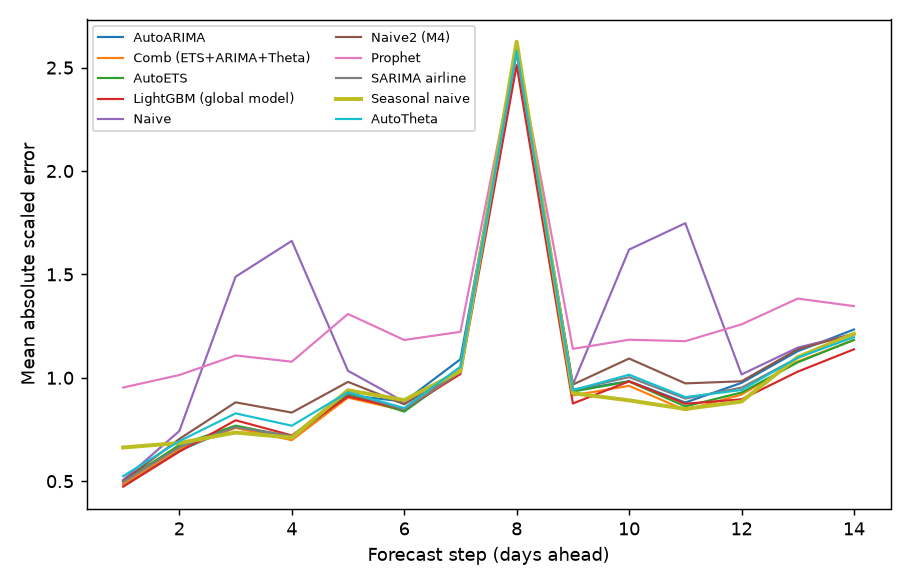
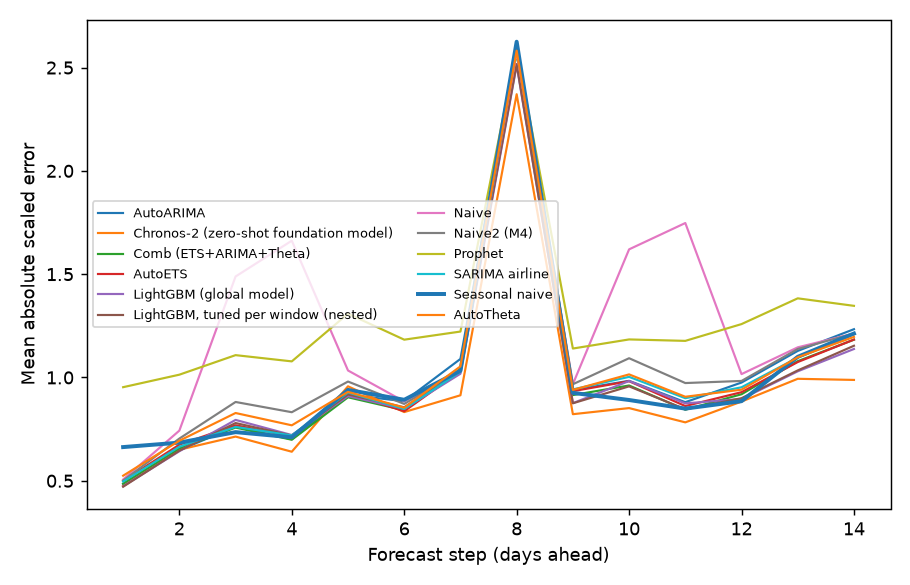
results: add Chronos-2 and nested-tuned LightGBM to both leaderboards
python -m ts_forecasting.benchmark for m4-monthly and electricity-daily, then make report.
Chronos-2 ran zero-shot on the RTX 5070 Ti (cuda); other models on the Ryzen 7 9800X3D.
Existing models' scores were reused from results/ and match the previous leaderboards to 3 decimals.

diff --git a/docs/results/m4-monthly/report.md b/docs/results/m4-monthly/report.md
@@ -4,37 +4,41 @@
 
 ## Leaderboard
 
-| model                                 |   mase |   rel_mase |   owa |   smape |    rmse |   coverage_80 |   msis_80 |   coverage_95 |   msis_95 |   ms_per_series |        n |
-|:--------------------------------------|-------:|-----------:|------:|--------:|--------:|--------------:|----------:|--------------:|----------:|----------------:|---------:|
-| Comb (ETS+ARIMA+Theta)                |  0.955 |      0.720 | 0.915 |   9.486 | 602.466 |         0.797 |     5.114 |         0.916 |     9.093 |         682.566 | 1500.000 |
-| AutoETS                               |  0.990 |      0.746 | 0.942 |   9.696 | 633.876 |         0.786 |     5.243 |         0.909 |     9.358 |          48.164 | 1500.000 |
-| SARIMA airline                        |  0.990 |      0.747 | 0.972 |  10.312 | 651.728 |         0.796 |     5.456 |         0.913 |    10.126 |          55.679 | 1500.000 |
-| AutoTheta                             |  0.992 |      0.748 | 0.953 |   9.893 | 611.049 |         0.750 |     5.590 |         0.872 |    10.872 |          26.080 | 1500.000 |
-| AutoARIMA                             |  0.998 |      0.753 | 0.961 |  10.007 | 627.774 |         0.774 |     5.588 |         0.896 |    10.813 |         608.323 | 1500.000 |
-| Naive2 (M4)                           |  1.063 |      0.801 | 1.000 |  10.183 | 632.729 |         0.813 |     6.560 |         0.914 |    11.669 |           1.481 | 1500.000 |
-| LightGBM (global model)               |  1.107 |      0.835 | 1.018 |  10.131 | 638.587 |         0.804 |     5.946 |         0.947 |    10.967 |          25.027 | 1500.000 |
-| LightGBM, pooled intervals (ablation) |  1.107 |      0.835 | 1.018 |  10.131 | 638.587 |         0.808 |     9.513 |         0.949 |    22.395 |          24.994 | 1500.000 |
-| Naive                                 |  1.235 |      0.931 | 1.139 |  11.358 | 703.280 |         0.847 |     7.781 |         0.932 |    13.320 |           0.487 | 1500.000 |
-| Seasonal naive                        |  1.326 |      1.000 | 1.220 |  12.135 | 777.087 |         0.782 |     7.053 |         0.915 |    12.441 |           0.407 | 1500.000 |
-| Prophet                               |  1.454 |      1.097 | 1.457 |  15.740 | 802.903 |         0.450 |     9.232 |         0.614 |    23.177 |          61.607 | 1500.000 |
+| model                                  |   mase |   rel_mase |   owa |   smape |    rmse |   coverage_80 |   msis_80 |   coverage_95 |   msis_95 |   ms_per_series |        n |
+|:---------------------------------------|-------:|-----------:|------:|--------:|--------:|--------------:|----------:|--------------:|----------:|----------------:|---------:|
+| Chronos-2 (zero-shot foundation model) |  0.943 |      0.711 | 0.897 |   9.219 | 584.622 |         0.782 |     4.740 |         0.961 |     8.498 |          65.199 | 1500.000 |
+| Comb (ETS+ARIMA+Theta)                 |  0.955 |      0.720 | 0.915 |   9.486 | 602.466 |         0.797 |     5.114 |         0.916 |     9.093 |         682.566 | 1500.000 |
+| AutoETS                                |  0.990 |      0.746 | 0.942 |   9.696 | 633.876 |         0.786 |     5.243 |         0.909 |     9.358 |          48.164 | 1500.000 |
+| SARIMA airline                         |  0.990 |      0.747 | 0.972 |  10.312 | 651.728 |         0.796 |     5.456 |         0.913 |    10.126 |          55.679 | 1500.000 |
+| AutoTheta                              |  0.992 |      0.748 | 0.953 |   9.893 | 611.049 |         0.750 |     5.590 |         0.872 |    10.872 |          26.080 | 1500.000 |
+| AutoARIMA                              |  0.998 |      0.753 | 0.961 |  10.007 | 627.774 |         0.774 |     5.588 |         0.896 |    10.813 |         608.323 | 1500.000 |
+| Naive2 (M4)                            |  1.063 |      0.801 | 1.000 |  10.183 | 632.729 |         0.813 |     6.560 |         0.914 |    11.669 |           1.481 | 1500.000 |
+| LightGBM (global model)                |  1.107 |      0.835 | 1.018 |  10.131 | 638.587 |         0.804 |     5.946 |         0.947 |    10.967 |          25.027 | 1500.000 |
+| LightGBM, pooled intervals (ablation)  |  1.107 |      0.835 | 1.018 |  10.131 | 638.587 |         0.808 |     9.513 |         0.949 |    22.395 |          24.994 | 1500.000 |
+| LightGBM, tuned per window (nested)    |  1.116 |      0.841 | 1.024 |  10.165 | 639.468 |         0.798 |     5.997 |         0.946 |    11.043 |          67.708 | 1500.000 |
+| Naive                                  |  1.235 |      0.931 | 1.139 |  11.358 | 703.280 |         0.847 |     7.781 |         0.932 |    13.320 |           0.487 | 1500.000 |
+| Seasonal naive                         |  1.326 |      1.000 | 1.220 |  12.135 | 777.087 |         0.782 |     7.053 |         0.915 |    12.441 |           0.407 | 1500.000 |
+| Prophet                                |  1.454 |      1.097 | 1.457 |  15.740 | 802.903 |         0.450 |     9.232 |         0.614 |    23.177 |          61.607 | 1500.000 |
 
 `owa` = M4 Overall Weighted Average vs Naive2; `msis_95` = M4 mean scaled interval score.
 
 ## Significance vs seasonal naive
 
-| model                   |   mase_diff |   mase_diff_ci_low |   mase_diff_ci_high |   win_rate_pct |   wilcoxon_p |   wilcoxon_p_holm |   dm_better_pct |   dm_worse_pct |   dm_series |   mean_rank |
-|:------------------------|------------:|-------------------:|--------------------:|---------------:|-------------:|------------------:|----------------:|---------------:|------------:|------------:|
-| AutoARIMA               |     -0.328  |            -0.377  |             -0.279  |           79   |     1.1e-40  |          6.58e-40 |            43   |            4.6 |         500 |        4.64 |
-| Comb (ETS+ARIMA+Theta)  |     -0.371  |            -0.418  |             -0.324  |           81   |     3.75e-52 |          3.37e-51 |            48.8 |            3.4 |         500 |        3.99 |
-| AutoETS                 |     -0.336  |            -0.385  |             -0.288  |           81   |     8.45e-48 |          6.76e-47 |            48.8 |            3   |         500 |        4.46 |
-| LightGBM (global model) |     -0.219  |            -0.249  |             -0.189  |           81.6 |     2.57e-47 |          1.8e-46  |            46   |            3.6 |         500 |        5.66 |
-| Naive                   |     -0.0914 |            -0.158  |             -0.0202 |           64.8 |     3.74e-09 |          7.47e-09 |            40   |           16.8 |         500 |        6.23 |
-| Naive2 (M4)             |     -0.264  |            -0.312  |             -0.218  |           74.2 |     2.01e-33 |          6.03e-33 |            47.2 |            6.4 |         500 |        5.38 |
-| Prophet                 |      0.128  |             0.0652 |              0.189  |           46   |     0.000174 |          0.000174 |            17   |           31   |         500 |        7.54 |
-| SARIMA airline          |     -0.336  |            -0.39   |             -0.284  |           75   |     1.63e-39 |          8.14e-39 |            43   |            5.6 |         500 |        4.76 |
-| AutoTheta               |     -0.334  |            -0.389  |             -0.281  |           76.4 |     1.73e-39 |          8.14e-39 |            45.2 |            7.2 |         500 |        4.75 |
+| model                                  |   mase_diff |   mase_diff_ci_low |   mase_diff_ci_high |   win_rate_pct |   wilcoxon_p |   wilcoxon_p_holm |   dm_better_pct |   dm_worse_pct |   dm_series |   mean_rank |
+|:---------------------------------------|------------:|-------------------:|--------------------:|---------------:|-------------:|------------------:|----------------:|---------------:|------------:|------------:|
+| AutoARIMA                              |     -0.328  |            -0.377  |             -0.279  |           79   |     1.1e-40  |          6.58e-40 |            43   |            4.6 |         500 |        5.58 |
+| Chronos-2 (zero-shot foundation model) |     -0.383  |            -0.435  |             -0.335  |           82.2 |     1.18e-55 |          1.29e-54 |            47.6 |            2.4 |         500 |        5.02 |
+| Comb (ETS+ARIMA+Theta)                 |     -0.371  |            -0.418  |             -0.324  |           81   |     3.75e-52 |          3.75e-51 |            48.8 |            3.4 |         500 |        4.83 |
+| AutoETS                                |     -0.336  |            -0.385  |             -0.288  |           81   |     8.45e-48 |          6.76e-47 |            48.8 |            3   |         500 |        5.33 |
+| LightGBM (global model)                |     -0.219  |            -0.249  |             -0.189  |           81.6 |     2.57e-47 |          1.8e-46  |            46   |            3.6 |         500 |        6.81 |
+| LightGBM, tuned per window (nested)    |     -0.211  |            -0.241  |             -0.181  |           82.6 |     2.02e-48 |          1.81e-47 |            43.8 |            4.2 |         500 |        6.87 |
+| Naive                                  |     -0.0914 |            -0.158  |             -0.0202 |           64.8 |     3.74e-09 |          7.47e-09 |            40   |           16.8 |         500 |        7.43 |
+| Naive2 (M4)                            |     -0.264  |            -0.312  |             -0.218  |           74.2 |     2.01e-33 |          6.03e-33 |            47.2 |            6.4 |         500 |        6.41 |
+| Prophet                                |      0.128  |             0.0652 |              0.189  |           46   |     0.000174 |          0.000174 |            17   |           31   |         500 |        9.06 |
+| SARIMA airline                         |     -0.336  |            -0.39   |             -0.284  |           75   |     1.63e-39 |          8.14e-39 |            43   |            5.6 |         500 |        5.71 |
+| AutoTheta                              |     -0.334  |            -0.389  |             -0.281  |           76.4 |     1.73e-39 |          8.14e-39 |            45.2 |            7.2 |         500 |        5.7  |
 
-Friedman test across all models: p = 1.3e-162. Nemenyi critical difference at 5%: 0.606 mean ranks.
+Friedman test across all models: p = 4.7e-188. Nemenyi critical difference at 5%: 0.745 mean ranks.
 
 `mase_diff` = mean per-series MASE difference (model - baseline) with a 95% series bootstrap CI; `win_rate_pct` = share of series where the model's MASE is lower; `dm_better_pct` / `dm_worse_pct` = share of series where a Diebold-Mariano test (absolute scaled error, HAC variance, HLN correction) finds the model significantly better / worse at 5%.
 

diff --git a/docs/results/electricity-daily/report.md b/docs/results/electricity-daily/report.md
@@ -4,36 +4,40 @@
 
 ## Leaderboard
 
-| model                   |   mase |   rel_mase |   owa |   smape |     rmse |   coverage_80 |   msis_80 |   coverage_95 |   msis_95 |   ms_per_series |        n |
-|:------------------------|-------:|-----------:|------:|--------:|---------:|--------------:|----------:|--------------:|----------:|----------------:|---------:|
-| LightGBM (global model) |  0.980 |      0.970 | 0.923 |   8.048 | 1327.564 |         0.805 |     5.681 |         0.940 |    10.867 |          74.487 | 1026.000 |
-| Comb (ETS+ARIMA+Theta)  |  0.990 |      0.980 | 0.934 |   8.164 | 1273.207 |         0.885 |     6.102 |         0.949 |    10.926 |        2267.105 | 1026.000 |
-| AutoETS                 |  1.000 |      0.989 | 0.946 |   8.289 | 1287.762 |         0.892 |     6.196 |         0.955 |    10.985 |         162.623 | 1026.000 |
-| SARIMA airline          |  1.010 |      1.000 | 0.966 |   8.552 | 1284.509 |         0.900 |     6.447 |         0.958 |    11.263 |          95.797 | 1026.000 |
-| Seasonal naive          |  1.010 |      1.000 | 0.950 |   8.280 | 1424.707 |         0.895 |     6.482 |         0.956 |    11.147 |           0.639 | 1026.000 |
-| AutoARIMA               |  1.016 |      1.005 | 0.955 |   8.321 | 1349.321 |         0.852 |     5.990 |         0.934 |    11.151 |        1912.116 | 1026.000 |
-| AutoTheta               |  1.024 |      1.013 | 0.968 |   8.481 | 1277.982 |         0.877 |     6.455 |         0.944 |    11.459 |         192.366 | 1026.000 |
-| Naive2 (M4)             |  1.055 |      1.045 | 1.000 |   8.776 | 1312.173 |         0.947 |     8.290 |         0.979 |    13.115 |           1.237 | 1026.000 |
-| Naive                   |  1.260 |      1.247 | 1.198 |  10.559 | 1435.218 |         0.955 |     9.861 |         0.983 |    15.336 |           0.461 | 1026.000 |
-| Prophet                 |  1.282 |      1.269 | 1.274 |  11.704 | 1444.302 |         0.707 |     6.604 |         0.865 |    12.245 |          80.183 | 1026.000 |
+| model                                  |   mase |   rel_mase |   owa |   smape |     rmse |   coverage_80 |   msis_80 |   coverage_95 |   msis_95 |   ms_per_series |        n |
+|:---------------------------------------|-------:|-----------:|------:|--------:|---------:|--------------:|----------:|--------------:|----------:|----------------:|---------:|
+| Chronos-2 (zero-shot foundation model) |  0.920 |      0.910 | 0.868 |   7.580 | 1185.452 |         0.781 |     4.738 |         0.955 |     8.342 |          10.007 | 1026.000 |
+| LightGBM, tuned per window (nested)    |  0.979 |      0.969 | 0.920 |   8.004 | 1329.642 |         0.801 |     5.656 |         0.940 |    10.870 |         189.346 | 1026.000 |
+| LightGBM (global model)                |  0.980 |      0.970 | 0.923 |   8.048 | 1327.564 |         0.805 |     5.681 |         0.940 |    10.867 |          74.487 | 1026.000 |
+| Comb (ETS+ARIMA+Theta)                 |  0.990 |      0.980 | 0.934 |   8.164 | 1273.207 |         0.885 |     6.102 |         0.949 |    10.926 |        2267.105 | 1026.000 |
+| AutoETS                                |  1.000 |      0.989 | 0.946 |   8.289 | 1287.762 |         0.892 |     6.196 |         0.955 |    10.985 |         162.623 | 1026.000 |
+| SARIMA airline                         |  1.010 |      1.000 | 0.966 |   8.552 | 1284.509 |         0.900 |     6.447 |         0.958 |    11.263 |          95.797 | 1026.000 |
+| Seasonal naive                         |  1.010 |      1.000 | 0.950 |   8.280 | 1424.707 |         0.895 |     6.482 |         0.956 |    11.147 |           0.639 | 1026.000 |
+| AutoARIMA                              |  1.016 |      1.005 | 0.955 |   8.321 | 1349.321 |         0.852 |     5.990 |         0.934 |    11.151 |        1912.116 | 1026.000 |
+| AutoTheta                              |  1.024 |      1.013 | 0.968 |   8.481 | 1277.982 |         0.877 |     6.455 |         0.944 |    11.459 |         192.366 | 1026.000 |
+| Naive2 (M4)                            |  1.055 |      1.045 | 1.000 |   8.776 | 1312.173 |         0.947 |     8.290 |         0.979 |    13.115 |           1.237 | 1026.000 |
+| Naive                                  |  1.260 |      1.247 | 1.198 |  10.559 | 1435.218 |         0.955 |     9.861 |         0.983 |    15.336 |           0.461 | 1026.000 |
+| Prophet                                |  1.282 |      1.269 | 1.274 |  11.704 | 1444.302 |         0.707 |     6.604 |         0.865 |    12.245 |          80.183 | 1026.000 |
 
 `owa` = M4 Overall Weighted Average vs Naive2; `msis_95` = M4 mean scaled interval score.
 
 ## Significance vs seasonal naive
 
-| model                   |   mase_diff |   mase_diff_ci_low |   mase_diff_ci_high |   win_rate_pct |   wilcoxon_p |   wilcoxon_p_holm |   dm_better_pct |   dm_worse_pct |   dm_series |   mean_rank |
-|:------------------------|------------:|-------------------:|--------------------:|---------------:|-------------:|------------------:|----------------:|---------------:|------------:|------------:|
-| AutoARIMA               |    0.00526  |            -0.0134 |             0.0264  |           57.6 |     0.265    |          0.385    |            9.65 |          12.6  |         342 |        5.19 |
-| Comb (ETS+ARIMA+Theta)  |   -0.0207   |            -0.0371 |            -0.00307 |           62   |     8.84e-05 |          0.00053  |           11.4  |           6.73 |         342 |        4.21 |
-| AutoETS                 |   -0.0107   |            -0.0281 |             0.00763 |           58.5 |     0.01     |          0.0501   |           12    |           6.73 |         342 |        4.8  |
-| LightGBM (global model) |   -0.0307   |            -0.0476 |            -0.013   |           64   |     1.5e-07  |          1.05e-06 |           11.1  |           6.43 |         342 |        4.51 |
-| Naive                   |    0.249    |             0.189  |             0.323   |           36   |     1.42e-13 |          1.14e-12 |            5.26 |          28.7  |         342 |        7.16 |
-| Naive2 (M4)             |    0.045    |             0.0143 |             0.079   |           44.7 |     0.0298   |          0.119    |            9.06 |          14.3  |         342 |        6.14 |
-| Prophet                 |    0.271    |             0.213  |             0.336   |           30.4 |     2.36e-17 |          2.12e-16 |            4.39 |          34.2  |         342 |        7.4  |
-| SARIMA airline          |   -9.62e-05 |            -0.0199 |             0.0213  |           55   |     0.193    |          0.385    |            9.65 |           9.36 |         342 |        5.14 |
-| AutoTheta               |    0.0131   |            -0.0128 |             0.0411  |           59.1 |     0.0367   |          0.119    |           12.3  |           8.48 |         342 |        4.79 |
+| model                                  |   mase_diff |   mase_diff_ci_low |   mase_diff_ci_high |   win_rate_pct |   wilcoxon_p |   wilcoxon_p_holm |   dm_better_pct |   dm_worse_pct |   dm_series |   mean_rank |
+|:---------------------------------------|------------:|-------------------:|--------------------:|---------------:|-------------:|------------------:|----------------:|---------------:|------------:|------------:|
+| AutoARIMA                              |    0.00526  |            -0.0134 |             0.0264  |           57.6 |     0.265    |          0.385    |            9.65 |          12.6  |         342 |        6.45 |
+| Chronos-2 (zero-shot foundation model) |   -0.0906   |            -0.116  |            -0.0652  |           73.7 |     9.67e-18 |          1.06e-16 |           15.5  |           6.14 |         342 |        4.45 |
+| Comb (ETS+ARIMA+Theta)                 |   -0.0207   |            -0.0371 |            -0.00307 |           62   |     8.84e-05 |          0.00053  |           11.4  |           6.73 |         342 |        5.3  |
+| AutoETS                                |   -0.0107   |            -0.0281 |             0.00763 |           58.5 |     0.01     |          0.0501   |           12    |           6.73 |         342 |        5.94 |
+| LightGBM (global model)                |   -0.0307   |            -0.0476 |            -0.013   |           64   |     1.5e-07  |          1.2e-06  |           11.1  |           6.43 |         342 |        5.65 |
+| LightGBM, tuned per window (nested)    |   -0.0316   |            -0.0479 |            -0.0153  |           64.3 |     7.96e-07 |          5.57e-06 |           10.2  |           5.26 |         342 |        5.77 |
+| Naive                                  |    0.249    |             0.189  |             0.323   |           36   |     1.42e-13 |          1.28e-12 |            5.26 |          28.7  |         342 |        8.65 |
+| Naive2 (M4)                            |    0.045    |             0.0143 |             0.079   |           44.7 |     0.0298   |          0.119    |            9.06 |          14.3  |         342 |        7.46 |
+| Prophet                                |    0.271    |             0.213  |             0.336   |           30.4 |     2.36e-17 |          2.36e-16 |            4.39 |          34.2  |         342 |        8.99 |
+| SARIMA airline                         |   -9.62e-05 |            -0.0199 |             0.0213  |           55   |     0.193    |          0.385    |            9.65 |           9.36 |         342 |        6.34 |
+| AutoTheta                              |    0.0131   |            -0.0128 |             0.0411  |           59.1 |     0.0367   |          0.119    |           12.3  |           8.48 |         342 |        5.94 |
 
-Friedman test across all models: p = 4.2e-80. Nemenyi critical difference at 5%: 0.732 mean ranks.
+Friedman test across all models: p = 1.5e-103. Nemenyi critical difference at 5%: 0.901 mean ranks.
 
 `mase_diff` = mean per-series MASE difference (model - baseline) with a 95% series bootstrap CI; `win_rate_pct` = share of series where the model's MASE is lower; `dm_better_pct` / `dm_worse_pct` = share of series where a Diebold-Mariano test (absolute scaled error, HAC variance, HLN correction) finds the model significantly better / worse at 5%.
 
